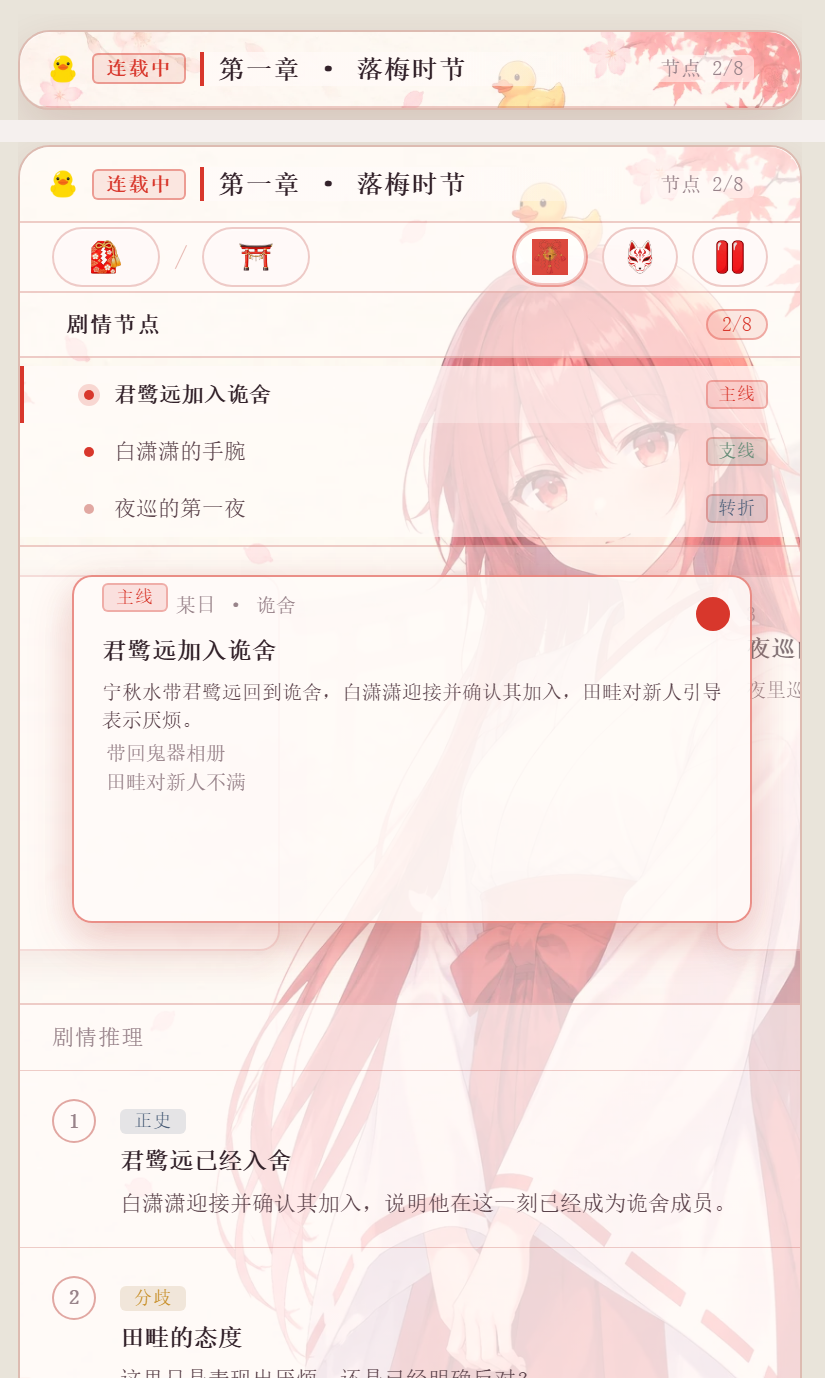
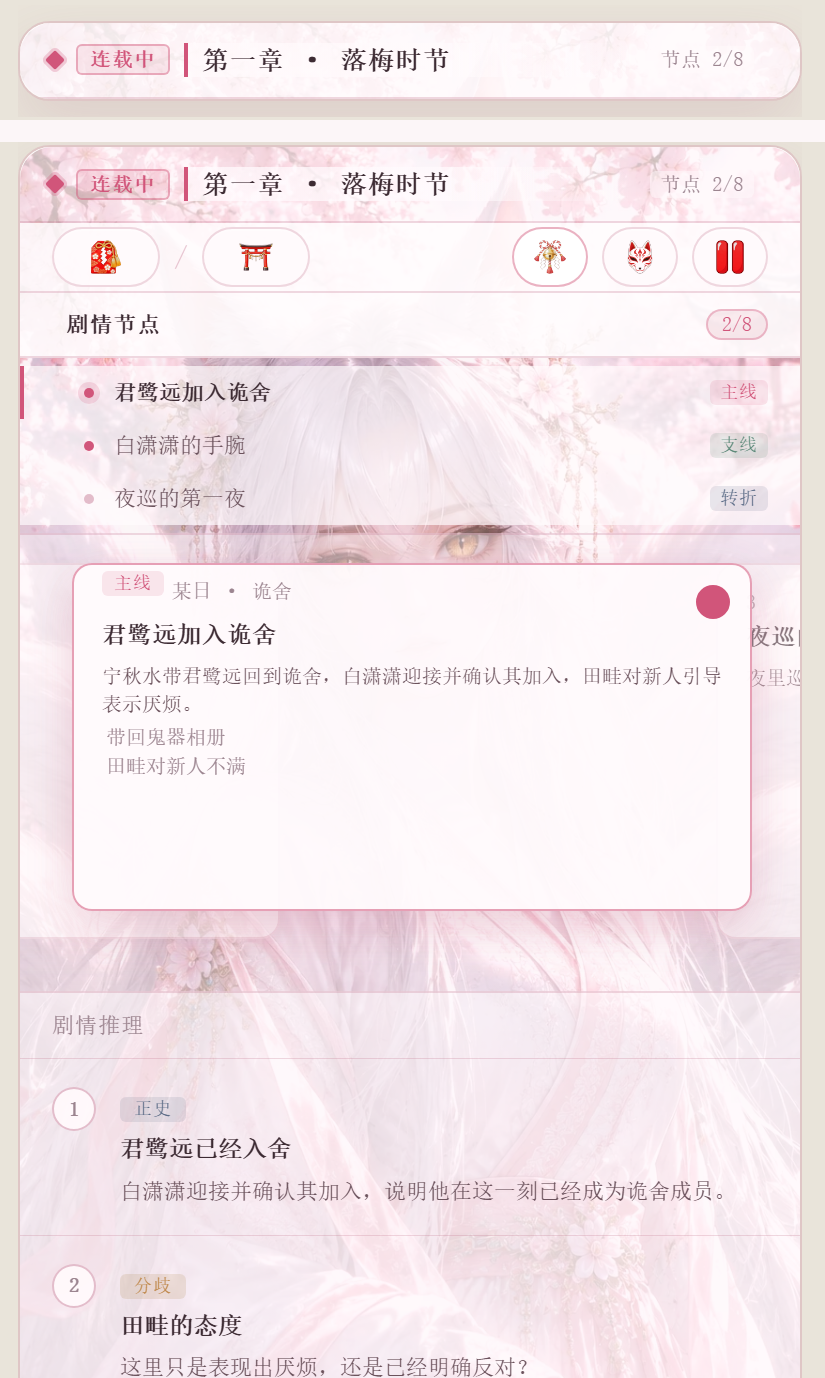
feat: 红发巫女主题 + 5 个生图按钮图标 (v1.4.0)

diff --git a/style.css b/style.css
@@ -1057,3 +1057,101 @@ html body #ni-storybar.ni-tb-shell.nb-theme-miko .ni-tb-selrow .ni-tb-btn-juadvi
     color: #a1271e !important;
     box-shadow: inset 0 0 0 1px rgba(216, 55, 44, 0.30) !important;
 }
+
+/* ============ 白发九尾：粉白、桃色点缀 ============ */
+html body #ni-storybar.ni-tb-shell.nb-theme-kitsune {
+    --nb-shell-bg: #fdf7f9;
+    --nb-paper-rgb: 255, 250, 252;
+    --nb-scrim-rgb: 253, 246, 249;
+    --nb-ink: #3d2b33;
+    --nb-ink-2: #6b525c;
+    --nb-ink-3: #9c8590;
+    --nb-line: rgba(196, 122, 148, 0.28);
+    --nb-line-strong: rgba(196, 122, 148, 0.48);
+    --nb-accent: #d1557a;
+    --nb-accent-rgb: 209, 85, 122;
+    --nb-jade: #5d8a7a;
+    --nb-jade-rgb: 93, 138, 122;
+    --nb-indigo: #5b6b86;
+    --nb-indigo-rgb: 91, 107, 134;
+    --nb-ochre: #c08a4e;
+    --nb-ico-color: #d1557a;
+    --nb-shell-shadow: 0 12px 30px rgba(160, 96, 120, 0.16), inset 0 1px 0 rgba(255, 255, 255, 0.8);
+    --nb-card-shadow: 0 8px 20px rgba(160, 96, 120, 0.12);
+
+    --ni-warning: #d1557a;
+    --ni-warning-soft: #fce9ef;
+    --ni-warning-soft-2: #fdf4f7;
+    --ni-warning-alpha-15: rgba(209, 85, 122, 0.15);
+    --ni-warning-alpha-14: rgba(209, 85, 122, 0.14);
+    --ni-warning-alpha-20: rgba(209, 85, 122, 0.20);
+    --ni-warning-alpha-30: rgba(209, 85, 122, 0.30);
+    --ni-warning-alpha-35: rgba(209, 85, 122, 0.35);
+    --ni-warning-alpha-50: rgba(209, 85, 122, 0.50);
+    --ni-primary: #7a4358;
+    --ni-primary-soft: #fbe8ee;
+    --ni-primary-soft-text: #8c3b56;
+    --ni-success-soft: #eaf2ee;
+    --ni-success-text: #45685c;
+    --ni-pivot-soft: #f6ecf0;
+    --ni-pivot-text: #6d4c5a;
+}
+
+html body #ni-storybar.ni-tb-shell.nb-theme-kitsune::before {
+    filter: saturate(0.96) brightness(1.03);
+}
+
+html body #ni-storybar.ni-tb-shell.nb-theme-kitsune .ni-tb-bar {
+    background-color: rgba(255, 252, 253, 0.90) !important;
+}
+html body #ni-storybar.ni-tb-shell.nb-theme-kitsune .ni-tb-selrow,
+html body #ni-storybar.ni-tb-shell.nb-theme-kitsune .ni-tb-section-hd {
+    background-color: rgba(255, 252, 253, 0.92) !important;
+}
+html body #ni-storybar.ni-tb-shell.nb-theme-kitsune .ni-tb-body {
+    background-color: rgba(var(--nb-paper-rgb), calc(var(--nb-paper-a2) * 0.24)) !important;
+}
+html body #ni-storybar.ni-tb-shell.nb-theme-kitsune .ni-tb-np-row,
+html body #ni-storybar.ni-tb-shell.nb-theme-kitsune .ni-tb-sp-row {
+    background-color: rgba(var(--nb-paper-rgb), calc(var(--nb-paper-a2) * 0.80)) !important;
+}
+html body #ni-storybar.ni-tb-shell.nb-theme-kitsune .ni-tb-scard {
+    background-color: rgba(var(--nb-paper-rgb), 0.95) !important;
+}
+html body #ni-storybar.ni-tb-shell.nb-theme-kitsune .ni-tb-btn-juadvise.active {
+    background-color: rgba(255, 255, 255, 0.95) !important;
+    border-color: rgba(209, 85, 122, 0.50) !important;
+    color: #8c3b56 !important;
+}
+
+/* 按钮图案沿用生图图标 */
+html body #ni-storybar.ni-tb-shell.nb-theme-kitsune #ni-tb-stage-btn::before,
+html body #ni-storybar.ni-tb-shell.nb-theme-kitsune #ni-tb-node-btn::before,
+html body #ni-storybar.ni-tb-shell.nb-theme-kitsune .ni-tb-btn-juadvise::before,
+html body #ni-storybar.ni-tb-shell.nb-theme-kitsune .ni-tb-btn-free::before,
+html body #ni-storybar.ni-tb-shell.nb-theme-kitsune .ni-tb-btn-pause::before {
+    -webkit-mask: none !important;
+    mask: none !important;
+    background-color: transparent !important;
+    background-size: contain !important;
+    background-position: center !important;
+    background-repeat: no-repeat !important;
+    width: 18px !important;
+    height: 18px !important;
+    opacity: 1 !important;
+}
+html body #ni-storybar.ni-tb-shell.nb-theme-kitsune #ni-tb-stage-btn::before {
+    background-image: url('icons/miko-stage.webp') !important;
+}
+html body #ni-storybar.ni-tb-shell.nb-theme-kitsune #ni-tb-node-btn::before {
+    background-image: url('icons/miko-node.webp') !important;
+}
+html body #ni-storybar.ni-tb-shell.nb-theme-kitsune .ni-tb-btn-juadvise::before {
+    background-image: url('icons/miko-auto.webp') !important;
+}
+html body #ni-storybar.ni-tb-shell.nb-theme-kitsune .ni-tb-btn-free::before {
+    background-image: url('icons/miko-free.webp') !important;
+}
+html body #ni-storybar.ni-tb-shell.nb-theme-kitsune .ni-tb-btn-pause::before {
+    background-image: url('icons/miko-pause.webp') !important;
+}

diff --git a/index.js b/index.js
@@ -31,10 +31,13 @@ const ASSETS = {
     eriInner: BASE + 'assets/eri-inner.webp',
     miko: BASE + 'assets/miko-bg.webp',
     mikoInner: BASE + 'assets/miko-inner.webp',
+    kitsune: BASE + 'assets/kitsune-bg.webp',
+    kitsuneInner: BASE + 'assets/kitsune-inner.webp',
     plain: '',
 };
 
 const PRESETS = [
+    { id: 'kitsune', name: '白发九尾', img: () => ASSETS.kitsune, tone: 'kitsune' },
     { id: 'miko', name: '红发巫女·小黄鸭', img: () => ASSETS.miko, tone: 'miko' },
     { id: 'eri', name: '绘梨衣·小黄鸭', img: () => ASSETS.eri, tone: 'eri' },
     { id: 'bw', name: '黑白·抱猫', img: () => ASSETS.bw, tone: 'bw' },
@@ -49,7 +52,7 @@ const PRESETS = [
 
 const DEFAULT = {
     enabled: true,
-    preset: 'miko',
+    preset: 'kitsune',
     image: '',
     tone: 'ink',        // 自定义图使用浅色还是深色文字
     pos: 'top',         // 收起时的取景：top / center / bottom（展开后自动居中）
@@ -169,7 +172,7 @@ function apply() {
     const img = imgOf(e);
     el.style.setProperty('--nb-img', img ? `url("${img}")` : 'none');
     // 框架内的内容区底纹：黑白水墨用宣纸山水，其余主题不铺
-    const innerOf = { bw: ASSETS.paper, eri: ASSETS.eriInner, miko: ASSETS.mikoInner };
+    const innerOf = { bw: ASSETS.paper, eri: ASSETS.eriInner, miko: ASSETS.mikoInner, kitsune: ASSETS.kitsuneInner };
     el.style.setProperty('--nb-img2', innerOf[e.preset] ? `url("${innerOf[e.preset]}")` : 'none');
     el.style.setProperty('--nb-pos', e.pos === 'top' || e.pos === 'bottom' ? e.pos : 'center');
     el.style.setProperty('--nb-paper-a', String(e.paper));

diff --git a/README.md b/README.md
@@ -29,7 +29,7 @@ SillyTavern/public/scripts/extensions/third-party/ni-bar-bg/
 ## 用法
 
 - **启用**：总开关，关掉就完全恢复原样（不改任何插件文件）。
-- **皮肤预设**：黑白·抱猫（默认）/ 水墨·少女 / 水墨·山水 / 水墨·背影 / 夜墨 / 樱粉 / 素纸，点一下立即生效。
+- **皮肤预设**：白发九尾（默认）/ 黑白·抱猫/ 水墨·少女 / 水墨·山水 / 水墨·背影 / 夜墨 / 樱粉 / 素纸，点一下立即生效。
 - **自定义底图**：上传本地图片，或填一个图片直链。上传的图会先在浏览器里压成 webp 再存，
   不会撑爆设置文件；建议竖版（2:3），主体偏上方或偏下方一点更好看。
 - **文字深浅**：浅色底配墨字，深色底配米字；换图后如觉得字看不清就切一下。
